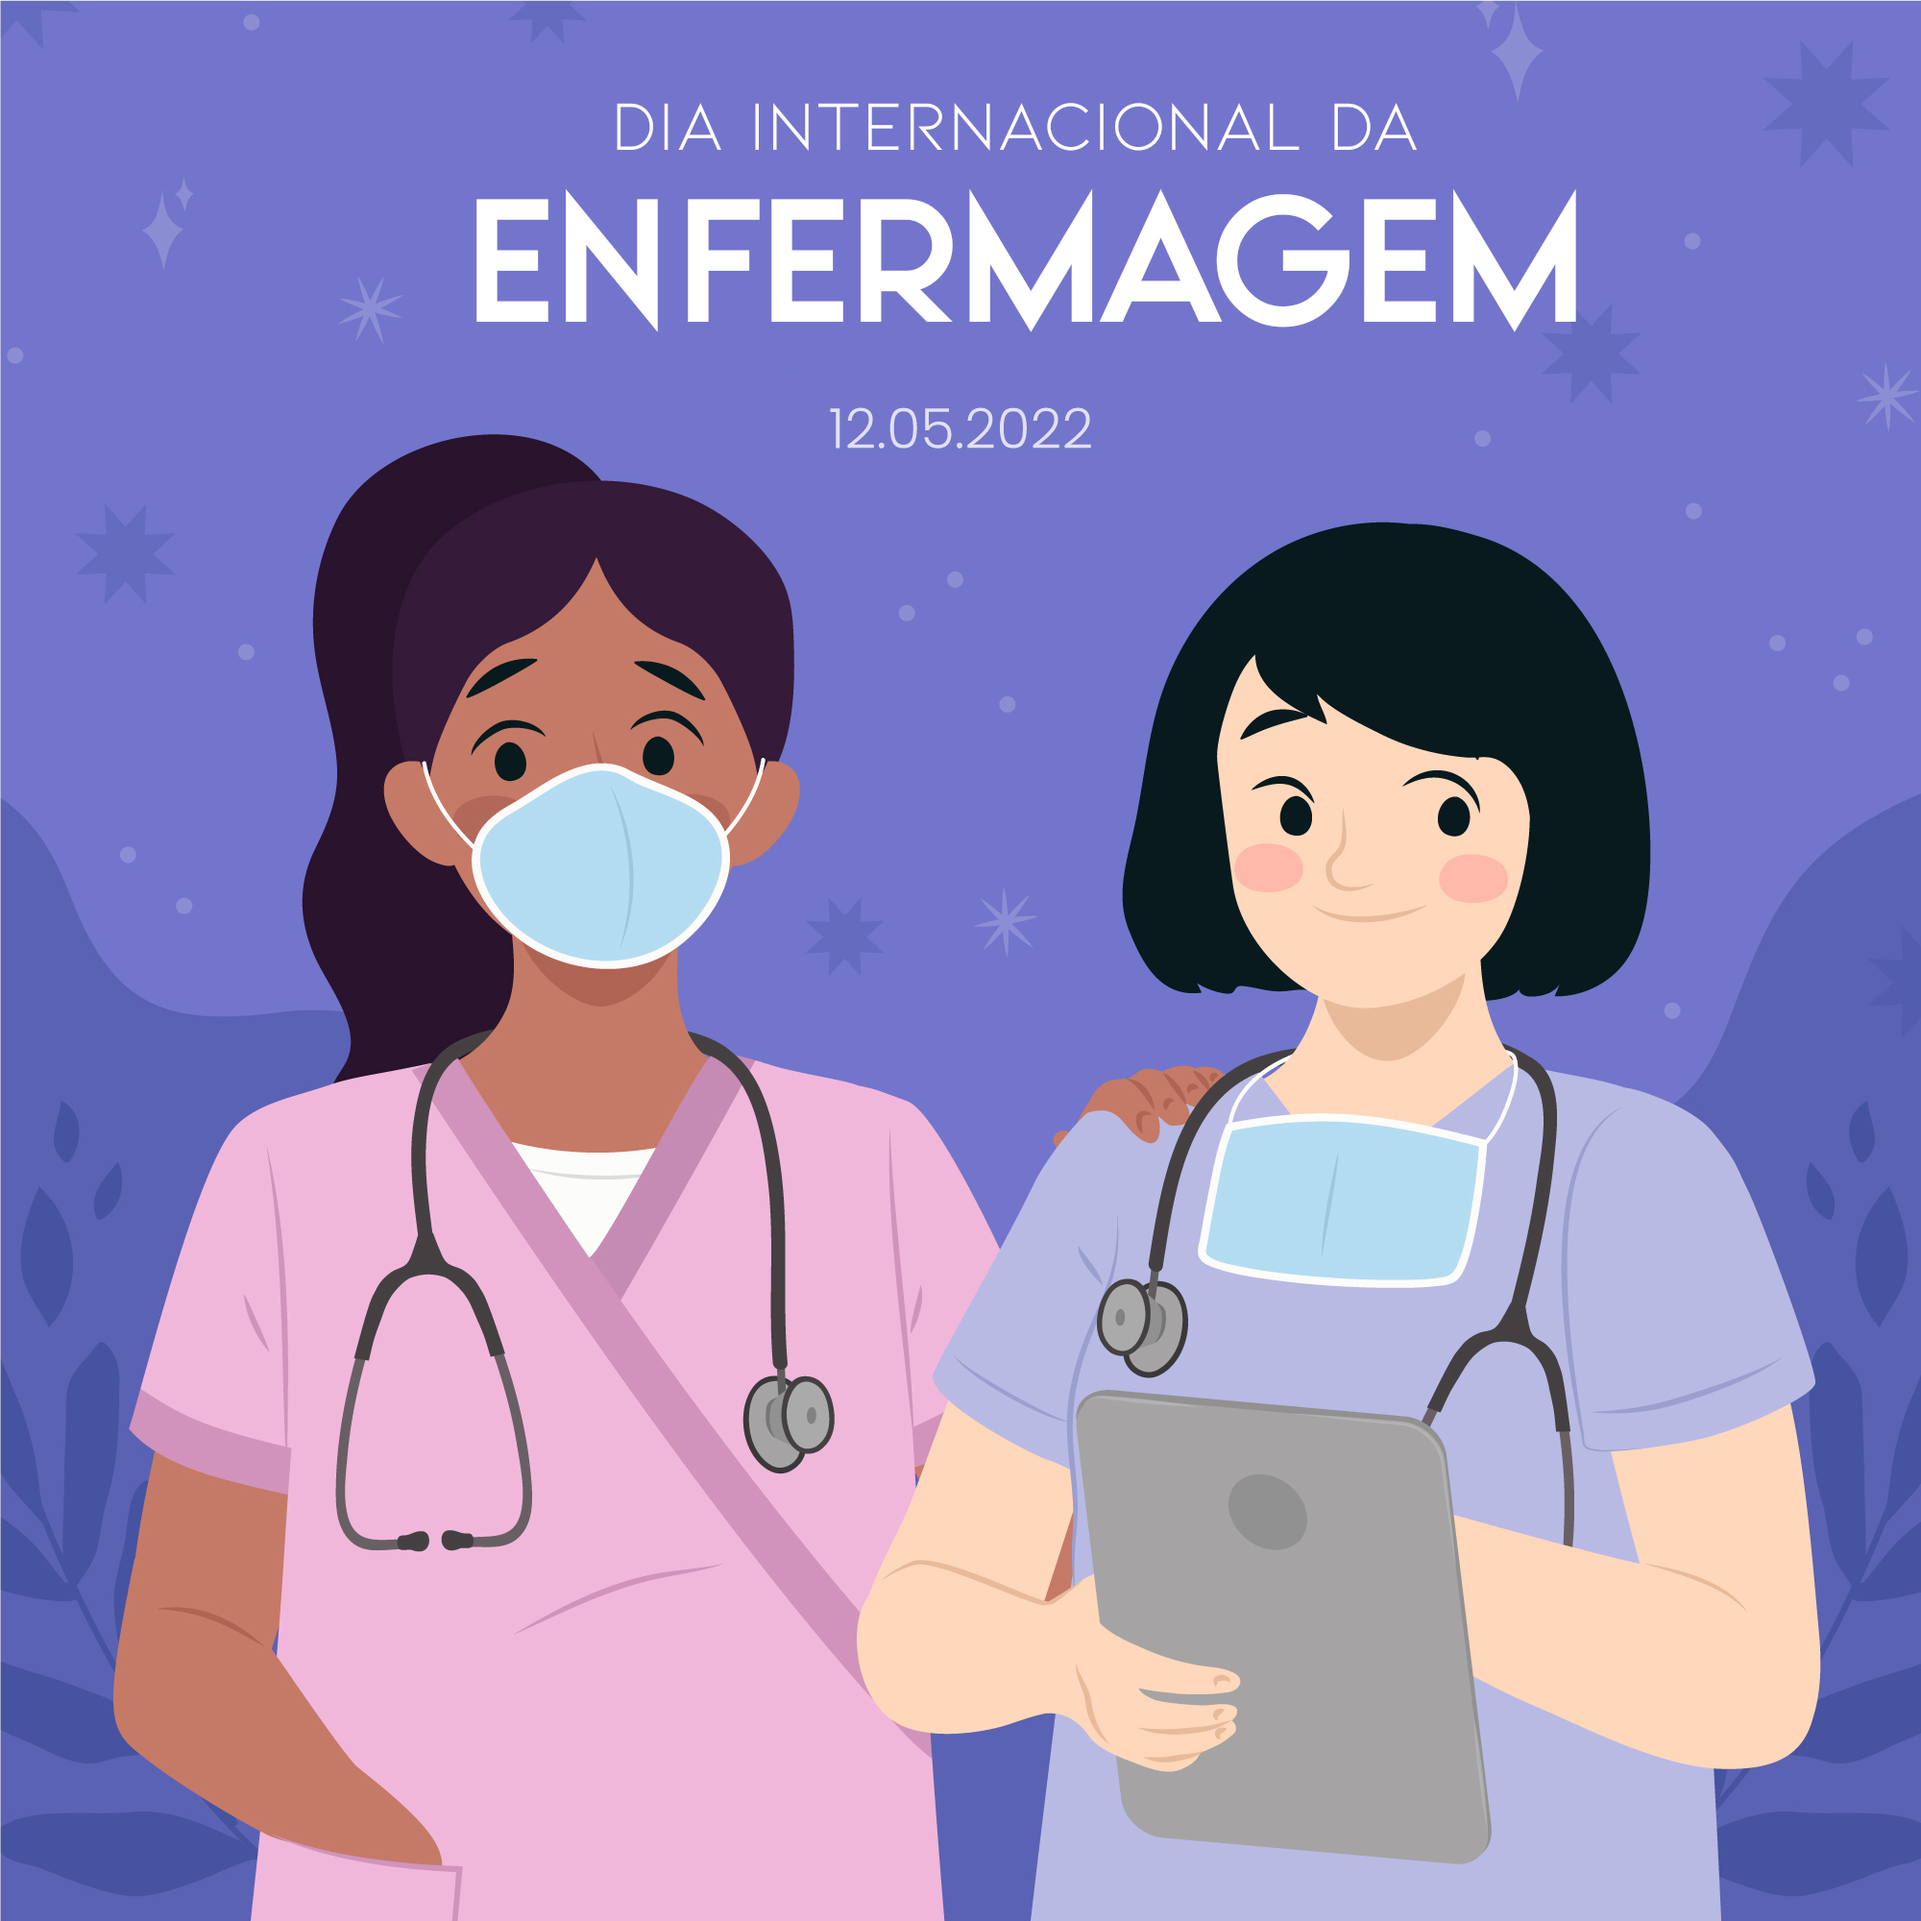
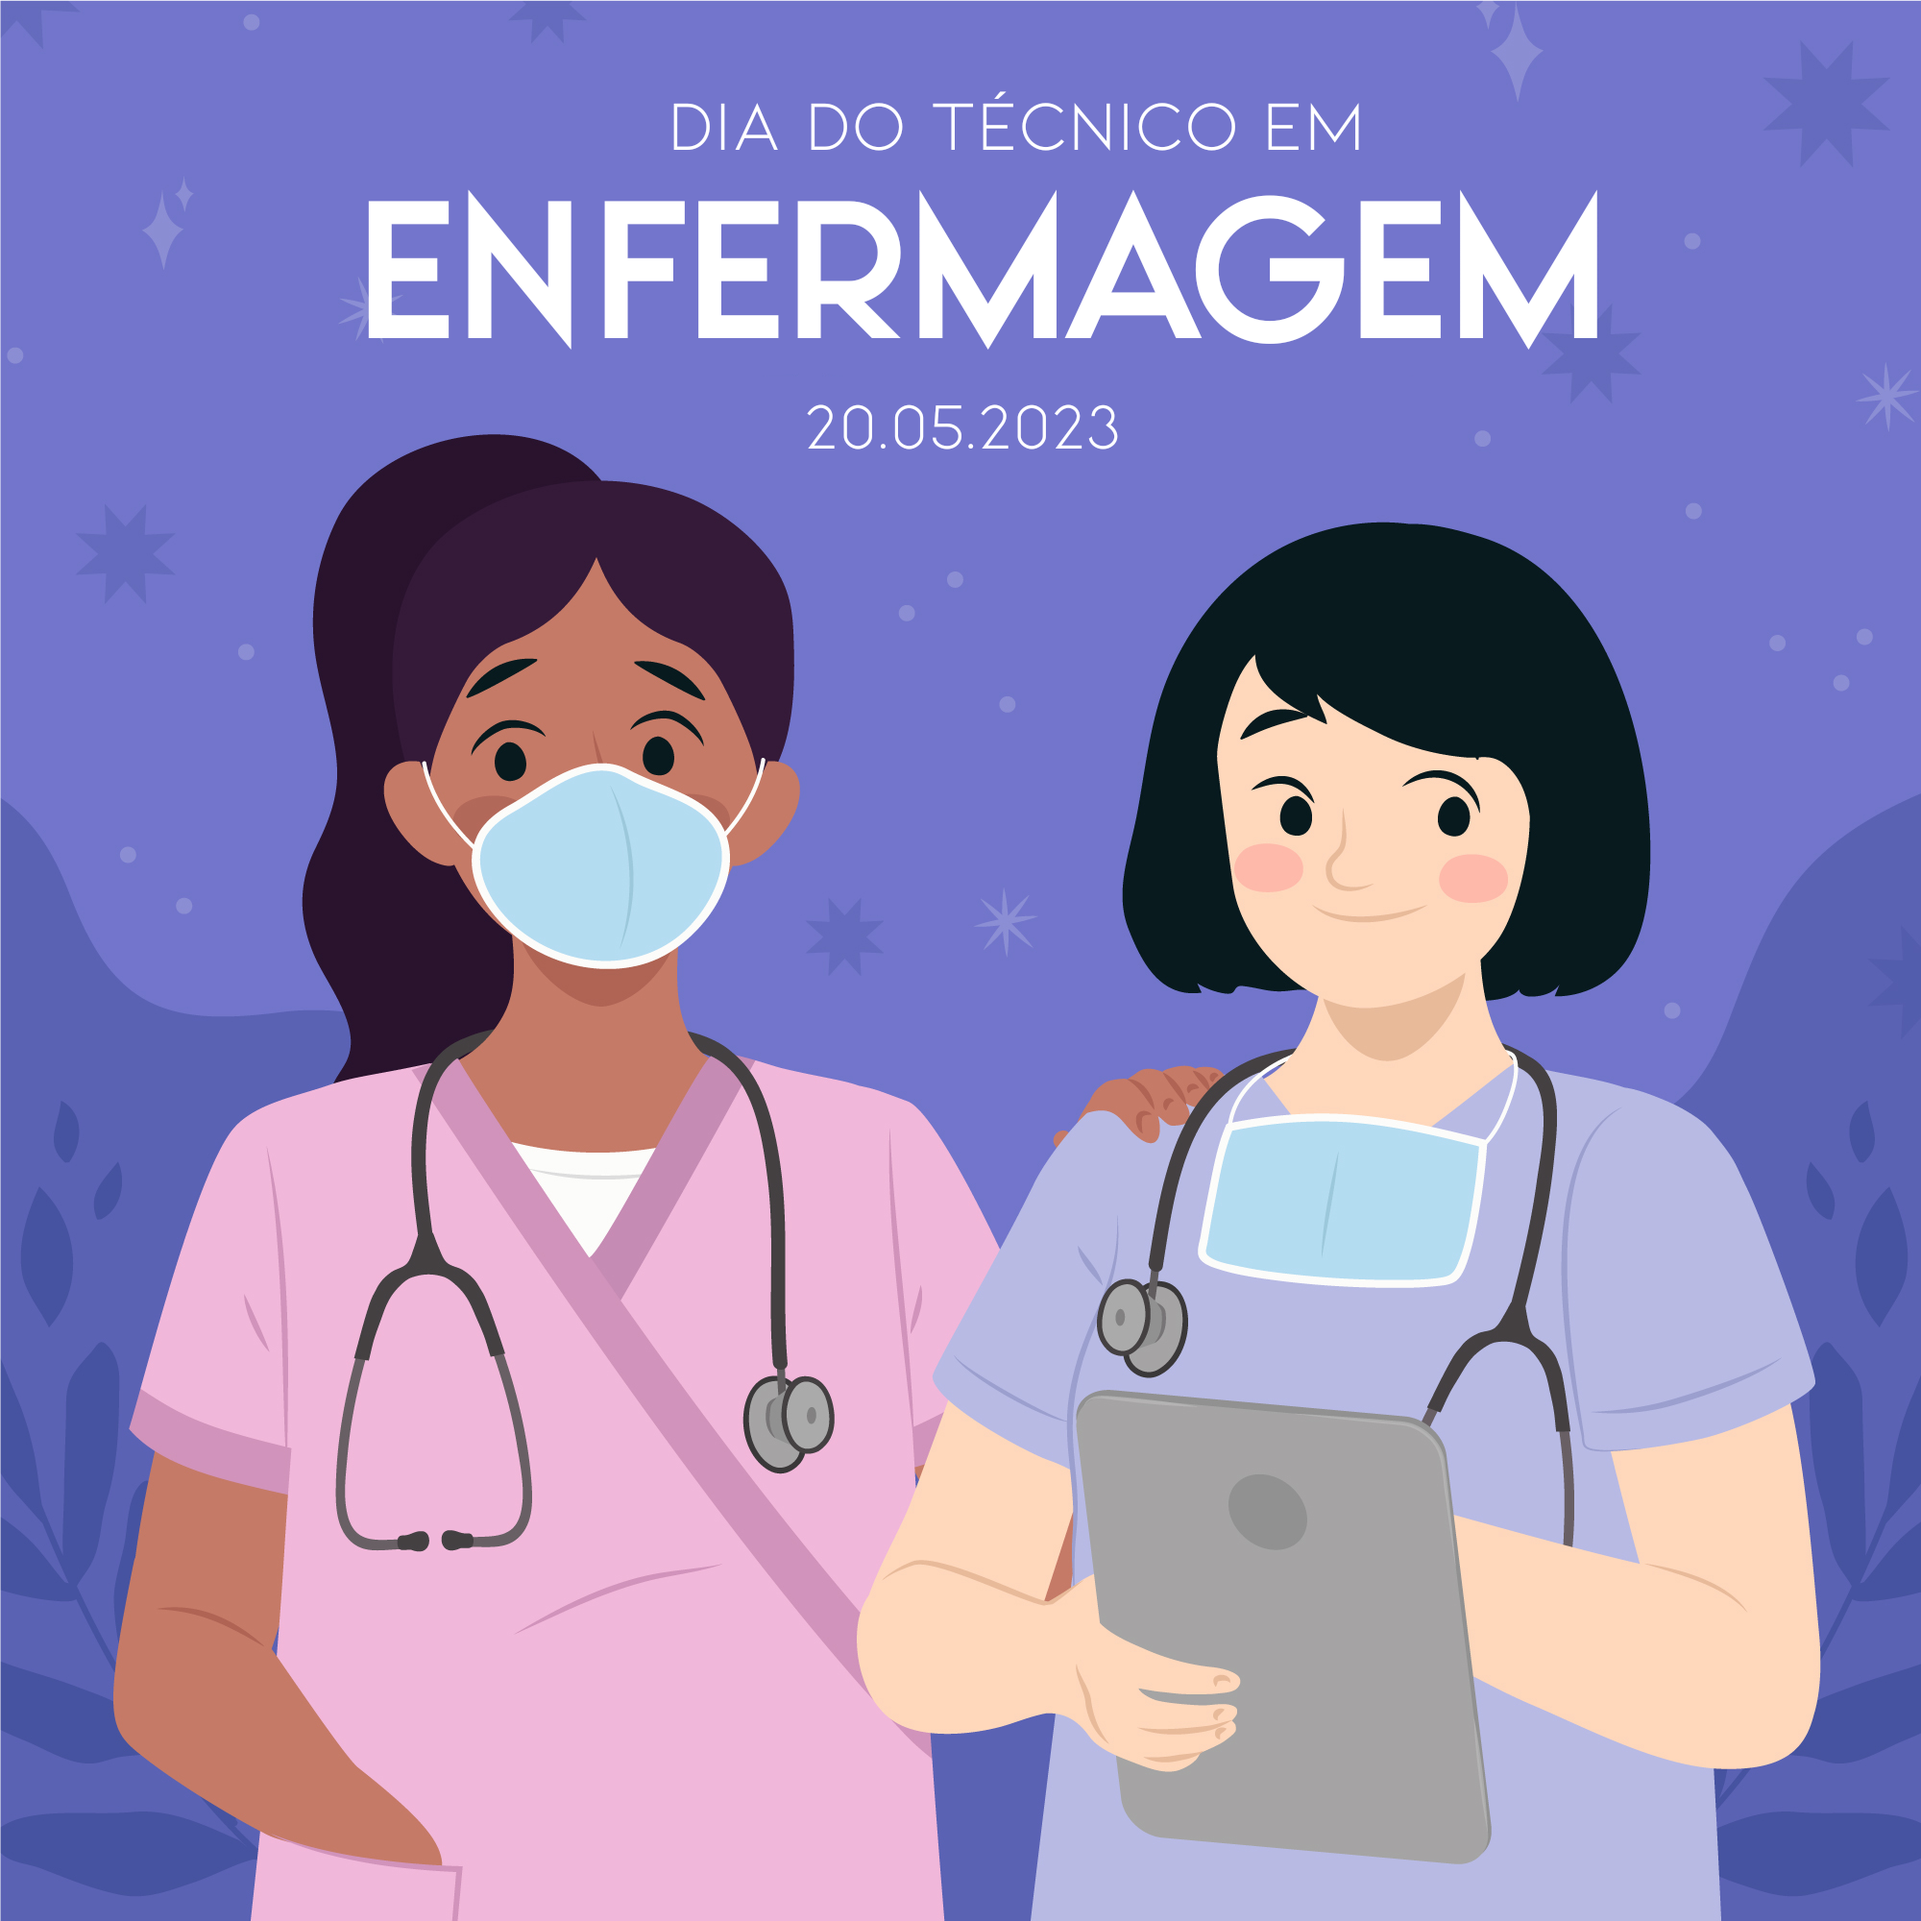
Enfermagem

Changed region(s): [[0.186, 0.031, 0.837, 0.248]]

diff --git a/index.html b/index.html
@@ -89,8 +89,9 @@
           <div class="col-xl-7 col-lg-6 icon-boxes d-flex flex-column align-items-stretch justify-content-center py-5 px-lg-5">
             <h3>O que é Enfermagem?</h3>
             <p>A enfermagem é uma profissão essencial para o funcionamento do sistema de saúde, sendo responsável por prestar assistência direta ao paciente, realizar procedimentos técnicos e administrar medicamentos. Além disso, os enfermeiros também atuam na prevenção de doenças, na educação em saúde e no acompanhamento de pacientes crônicos.</p>
-              <br><h3>Dia Internacional da Enfermagem</h3>
-              <p class="description">O Dia Internacional da Enfermagem é celebrado anualmente em 12 de maio, data que coincide com o aniversário de Florence Nightingale, considerada a fundadora da enfermagem moderna. A data tem como objetivo homenagear os profissionais da área, reconhecendo sua importância e dedicação na promoção da saúde e no cuidado aos pacientes.</p>
+              <br><h3>Dia do Técnico em Enfermagem</h3>
+              <p class="description">O Dia do Técnico em Enfermagem é comemorado anualmente em 20 de maio, data que homenageia os profissionais responsáveis por prestar assistência direta ao paciente, realizar procedimentos técnicos e administrar medicamentos. O técnico em enfermagem é um profissional indispensável para o funcionamento do sistema de saúde, trabalhando em conjunto com outros profissionais da área para garantir a qualidade do atendimento aos pacientes.
+                Além disso, o técnico em enfermagem também atua na prevenção de doenças, na educação em saúde e no acompanhamento de pacientes crônicos. Com sua dedicação e comprometimento, esses profissionais contribuem significativamente para a promoção da saúde e bem-estar da população.</p>
           </div>
         </div>
 
@@ -106,7 +107,8 @@
           <div class="col-lg-3 col-md-6">
             <div class="count-box">
               <i class="fas fa-award"></i>
-              <span data-purecounter-start="0" data-purecounter-end="2540715" data-purecounter-duration="1" class="purecounter"></span>
+              <!-- <span data-purecounter-start="0" data-purecounter-end="2540715" data-purecounter-duration="1" class="purecounter"></span> -->
+              
               <b><p> Profissionais de enfermagem </p></b>
             </div>
           </div>
@@ -333,11 +335,12 @@
       <div class="container">
         <div class="container1">
           <div class="text1">
+            <br>
             <h4>Quiz</h4>
-            <p>Escaneie o Código QR ao lado para responder a um quiz e descobrir o quanto você sabe sobre enfermagem!</p>
+            <p>Clique no botão abaixo, para começar o jogo da memória!!!</p>
           </div>
           <div class="image1">
-            <img src="assets/img/qrcode.jpeg" alt="Imagem">
+            <h3><a href="https://jeanaraga.github.io/memory-game-main/"><button>Clique aqui</button></a></h3>
           </div>
         </div>  
       </div>

diff --git a/assets/css/style.css b/assets/css/style.css
@@ -969,6 +969,15 @@ text-align: center;
   height: auto;
 }
 
+button{
+  width: 200px;
+  height: 80px;
+  border-radius: 20px;
+background-color: #e18000;
+border: 2px solid #633197;
+  color: #633197;
+}
+
 /*--------------------------------------------------------------
 # Footer
 --------------------------------------------------------------*/
